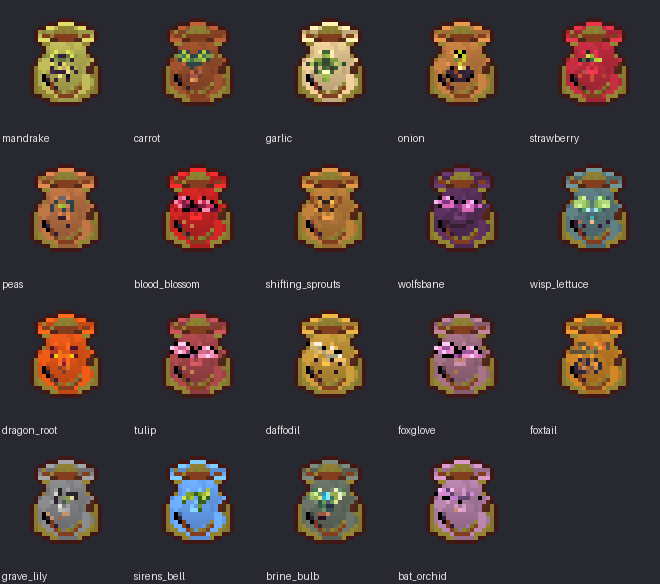
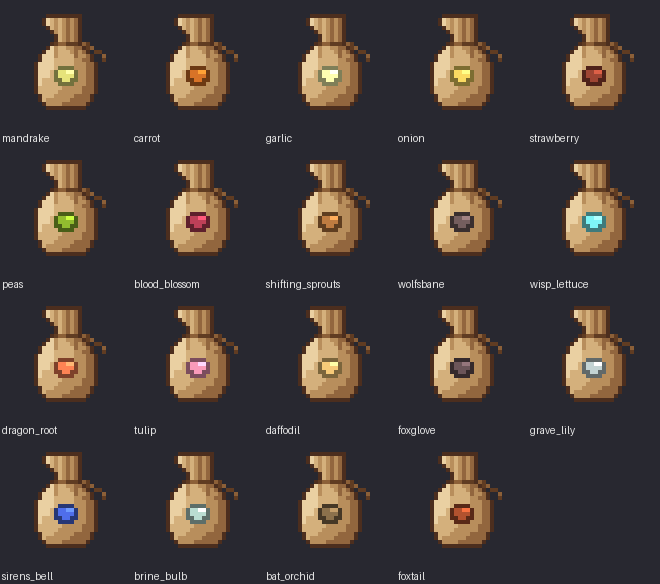
Seed bags: one hand-drawn tan sack with a single seed emblem in each crop's seed colour
Claude-Session: https://claude.ai/code/session_01DZoCGNTKvTqdtWPybs567b

diff --git a/tools/art/bags.py b/tools/art/bags.py
@@ -1,0 +1,64 @@
+"""Every crop's seed bag: the hand-drawn tan sack from grids/items/seed_bag.grid with one seed on the front in that crop's seed colour."""
+import json
+import sys
+from pathlib import Path
+
+import numpy as np
+from PIL import Image
+
+from grid_to_png import parse, render
+from sheets import labelled_grid
+
+ART = Path(__file__).resolve().parent
+ROOT = ART.parents[1]
+SEED = [".dddd.", "dmmlld", "dmmmmd", "ddmmdd", ".dddd."]
+SEED_AT = (13, 16)
+
+
+def seed_colour(seed: Image.Image) -> tuple[int, int, int]:
+    """Median of the brightest fifth of the seed stage, which is the seeds themselves rather than the mound."""
+    a = np.asarray(seed.convert("RGBA")).astype(int)
+    alpha = a[..., 3] > 0
+    luma = 0.299 * a[..., 0] + 0.587 * a[..., 1] + 0.114 * a[..., 2]
+    picked = alpha & (luma >= np.percentile(luma[alpha], 80))
+    return tuple(int(v) for v in np.median(a[..., :3][picked], axis=0))
+
+
+def _scale(colour: tuple[int, int, int], k: float) -> tuple[int, int, int, int]:
+    return (*(int(max(0, min(255, v * k))) for v in colour), 255)
+
+
+def build(seed: Image.Image) -> Image.Image:
+    bag = render(parse(ART / "grids" / "items" / "seed_bag.grid"))
+    colour = seed_colour(seed)
+    inks = {"d": _scale(colour, 0.5), "m": _scale(colour, 1.0), "l": _scale(colour, 1.4)}
+    px = bag.load()
+    for j, row in enumerate(SEED):
+        for i, ch in enumerate(row):
+            if ch != ".":
+                px[SEED_AT[0] + i, SEED_AT[1] + j] = inks[ch]
+    return bag
+
+
+def main() -> None:
+    sys.path.insert(0, str(ART))
+    from art import now, rel, save_generated, sha
+
+    generated = json.loads((ART / "generated.json").read_text())
+    items = []
+    for name, record in generated["crops"].items():
+        folder = ART / "raw" / "crops" / name
+        if not (folder / "seed.png").exists():
+            continue
+        out = folder / "bag.png"
+        build(Image.open(folder / "seed.png")).save(out)
+        record["stages"]["bag"] = {"file": rel(out), "created": now(), "hash": sha(out), "edit": "tan sack grid with one seed in the seed-stage colour"}
+        items.append((name, Image.open(out).convert("RGBA")))
+    save_generated(generated)
+    preview = ROOT / "previews" / "art" / "crops-bag.png"
+    labelled_grid(items).save(preview)
+    print(preview)
+
+
+if __name__ == "__main__":
+    main()

diff --git a/tools/art/README.md b/tools/art/README.md
@@ -37,7 +37,7 @@ Soil is a Wang tileset drawn over the painted grass. Declare the terrain pair in
 
 ## Crops
 
-`crops.json` gives each crop its seed style, final-form colour and description, per-stage `stage_notes` (edits the user asked for, applied with `edit`), and `anim` (a `crop_anim.py` builder per stage: `eyes`, `drip`, `flame`, `twitch`). `art.py crop-design <stage> --season s` generates one 32×32 image per crop (`--name` for one, `--redo` to replace) and a labelled sheet; `approve crops --stage <stage>` records the yes. `crop-import` writes `assets/tiles/crops.png` with a row per crop and an animated tile per stage, plus `data/crop_atlas.json`, which `CropData` reads to find each stage's column.
+`crops.json` gives each crop its seed style, final-form colour and description, per-stage `stage_notes` (edits the user asked for, applied with `edit`), and `anim` (a `crop_anim.py` builder per stage: `eyes`, `drip`, `flame`, `twitch`). `art.py crop-design <stage> --season s` generates one 32×32 image per crop (`--name` for one, `--redo` to replace) and a labelled sheet; `approve crops --stage <stage>` records the yes. `crop-import` writes `assets/tiles/crops.png` with a row per crop and an animated tile per stage, plus `data/crop_atlas.json`, which `CropData` reads to find each stage's column. Seed bags are not generated: `bags.py` stamps one seed in each crop's seed-stage colour onto the hand-drawn sack in `grids/items/seed_bag.grid` and rebuilds `previews/art/crops-bag.png`.
 
 ## Placeholders
 
